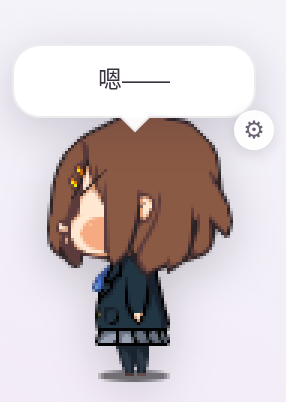
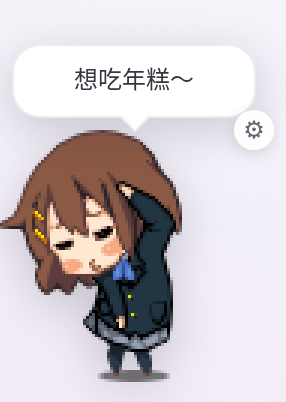
fix: 分离行走/普通动画 FPS；修正中野梓单击动作

Changed region(s): [[0.0, 0.2687, 0.8392, 0.9552], [0.2517, 0.1493, 0.6713, 0.2388]]

diff --git a/lib/client.js b/lib/client.js
@@ -178,8 +178,9 @@
 			returnAfter: 5,
 			// 移动速度（1× 缩放下的 px/s）与节奏
 			speed: 96,
-			// 所有精灵动画的播放倍率（1 = 原始速度）
-			animSpeed: 1,
+			// 行走/其他动画的帧率（FPS），分开调节
+			walkFps: 6,
+			animFps: 6,
 			idleSeconds: 4, // 两次走动之间的待机时长（秒）
 			walkSeconds: 3, // 单次走动的时长（秒）
 			// 随机跟随：律跟澪、唯跟梓；䌷在大家都待久了时跟其中一队
@@ -250,7 +251,8 @@
 			seats,
 			returnAfter: Number.isFinite(Number(source.returnAfter)) ? clamp(Number(source.returnAfter), 0, 60) : 5,
 			speed: Number.isFinite(Number(source.speed)) ? clamp(Number(source.speed), 30, 300) : 96,
-			animSpeed: Number.isFinite(Number(source.animSpeed)) ? clamp(Number(source.animSpeed), 0.5, 2) : 1,
+			walkFps: Number.isFinite(Number(source.walkFps)) ? clamp(Math.round(Number(source.walkFps)), 2, 24) : 6,
+			animFps: Number.isFinite(Number(source.animFps)) ? clamp(Math.round(Number(source.animFps)), 2, 24) : 6,
 			idleSeconds: Number.isFinite(Number(source.idleSeconds)) ? clamp(Number(source.idleSeconds), 1, 120) : 4,
 			walkSeconds: Number.isFinite(Number(source.walkSeconds)) ? clamp(Number(source.walkSeconds), 1, 60) : 3,
 			follow: source.follow !== false,
@@ -605,7 +607,7 @@
 			const ASSET_BASE = "/dsh-k-on-pet";
 			// build-client.mjs 会把占位符替换成资源内容摘要；切图/语音变化后 URL 自动变化，
 			// 避免浏览器继续使用旧尺寸的 sheet.png。
-			const ASSET_REV = "3e9369b48547";
+			const ASSET_REV = "05f9bf7a1a85";
 			const {
 				CELL,
 				TABLE,
@@ -1720,20 +1722,37 @@
 						),
 						h("div", { className: "konp-set-row" },
 							h("div", { className: "konp-set-name" },
-								h("b", null, "动画速度"),
-								h("small", null, "所有动作与茶桌动画的播放倍率"),
+								h("b", null, "行走动画 FPS"),
+								h("small", null, "迈步动画的帧率，与移动速度独立"),
 							),
 							h("input", {
 								className: "konp-range",
 								type: "range",
-								min: 0.5,
-								max: 2,
-								step: 0.05,
-								value: settings.animSpeed,
-								"aria-label": "动画速度",
-								onChange: (event) => updateSettings({ animSpeed: Number(event.target.value) }),
+								min: 2,
+								max: 24,
+								step: 1,
+								value: settings.walkFps,
+								"aria-label": "行走动画 FPS",
+								onChange: (event) => updateSettings({ walkFps: Number(event.target.value) }),
 							}),
-							h("span", { className: "konp-set-value" }, `${settings.animSpeed.toFixed(2)}×`),
+							h("span", { className: "konp-set-value" }, `${settings.walkFps} FPS`),
+						),
+						h("div", { className: "konp-set-row" },
+							h("div", { className: "konp-set-name" },
+								h("b", null, "其他动画 FPS"),
+								h("small", null, "待机、点击、拖拽等非行走动画的帧率"),
+							),
+							h("input", {
+								className: "konp-range",
+								type: "range",
+								min: 2,
+								max: 24,
+								step: 1,
+								value: settings.animFps,
+								"aria-label": "其他动画 FPS",
+								onChange: (event) => updateSettings({ animFps: Number(event.target.value) }),
+							}),
+							h("span", { className: "konp-set-value" }, `${settings.animFps} FPS`),
 						),
 						h("div", { className: "konp-set-row" },
 							h("div", { className: "konp-set-name" },
@@ -2742,14 +2761,12 @@
 
 						syncTransform();
 
-						// 走路时按位移速度推帧，避免步频和移动速度对不上（看起来像滑步）。
-						const walkFps = Math.max(2, Math.min(8, (current.speed * current.scale) / 22));
-						let fps = engine.mode === "walk" ? walkFps : engine.clip === "stand" ? 4 : (CLIP_FPS[engine.clip] || 5);
+						// 行走/其他动画分别使用用户设置的帧率；行走不再跟随移动速度自动折算。
+						let fps = engine.mode === "walk" ? current.walkFps : engine.clip === "stand" ? 4 : current.animFps;
 				// 导入的自定义动作：按"整段约 1.6 秒"折算帧率，避免 2-3 帧的图集闪成幻灯片
 				if (meta.frameOrder && meta.frameOrder[engine.row] && engine.frames.length) {
 					fps = Math.max(1, Math.min(6, engine.frames.length / 1.6));
 				}
-					fps *= Math.max(0.25, Number(current.animSpeed) || 1);
 						const advanced = Core.advanceFrame(engine, dt, fps, engine.frames.length);
 						engine.frame = advanced.frame;
 						engine.acc = advanced.acc;
@@ -3109,10 +3126,8 @@
 			}
 
 			// 入座立绘：中间三人按 4x2 帧表循环播放，两侧两人保持静态。
-			function TableSeatSprite({ id, animated, animSpeed = 1, style, onPointerDown }) {
+			function TableSeatSprite({ id, animated, style, onPointerDown }) {
 				const canvasRef = useRef(null);
-				const animRef = useRef(animSpeed);
-				animRef.current = animSpeed;
 				const [image, setImage] = useState(null);
 				useEffect(() => {
 					if (!animated) return undefined;
@@ -3139,7 +3154,7 @@
 					const stop = addTicker((dt) => {
 						if (window.document.hidden) return;
 						acc += dt;
-						const interval = 1 / Math.max(0.1, TABLE.fps * (Number(animRef.current) || 1));
+						const interval = 1 / Math.max(0.1, TABLE.fps);
 						if (acc < interval) return;
 						acc %= interval;
 						frame += 1;
@@ -3186,8 +3201,6 @@
 				const [ghost, setGhost] = useState(null);
 				const [menu, setMenu] = useState(null);
 				const [failed, setFailed] = useState(false);
-				const animSpeedRef = useRef(settings.animSpeed);
-				animSpeedRef.current = settings.animSpeed;
 
 				useEffect(() => () => cleanupRef.current(), []);
 
@@ -3238,7 +3251,7 @@
 					const removeTicker = reduce ? () => {} : addTicker((dt) => {
 						if (!ready00 || window.document.hidden) return;
 						acc += dt;
-						const interval = 1 / Math.max(0.1, TABLE.fps * (Number(animSpeedRef.current) || 1));
+						const interval = 1 / Math.max(0.1, TABLE.fps);
 						while (acc >= interval) {
 							acc -= interval;
 							frame += 1;
@@ -3405,7 +3418,6 @@
 							key: seat.id,
 							id: seat.id,
 							animated: Boolean(TABLE_ANIM[seat.id]),
-							animSpeed: settings.animSpeed,
 							style: {
 								position: "absolute",
 								zIndex: seat.id === "yui" ? 1 : 2,

diff --git a/src/client.js b/src/client.js
@@ -1132,20 +1132,37 @@
 						),
 						h("div", { className: "konp-set-row" },
 							h("div", { className: "konp-set-name" },
-								h("b", null, "动画速度"),
-								h("small", null, "所有动作与茶桌动画的播放倍率"),
+								h("b", null, "行走动画 FPS"),
+								h("small", null, "迈步动画的帧率，与移动速度独立"),
 							),
 							h("input", {
 								className: "konp-range",
 								type: "range",
-								min: 0.5,
-								max: 2,
-								step: 0.05,
-								value: settings.animSpeed,
-								"aria-label": "动画速度",
-								onChange: (event) => updateSettings({ animSpeed: Number(event.target.value) }),
+								min: 2,
+								max: 24,
+								step: 1,
+								value: settings.walkFps,
+								"aria-label": "行走动画 FPS",
+								onChange: (event) => updateSettings({ walkFps: Number(event.target.value) }),
 							}),
-							h("span", { className: "konp-set-value" }, `${settings.animSpeed.toFixed(2)}×`),
+							h("span", { className: "konp-set-value" }, `${settings.walkFps} FPS`),
+						),
+						h("div", { className: "konp-set-row" },
+							h("div", { className: "konp-set-name" },
+								h("b", null, "其他动画 FPS"),
+								h("small", null, "待机、点击、拖拽等非行走动画的帧率"),
+							),
+							h("input", {
+								className: "konp-range",
+								type: "range",
+								min: 2,
+								max: 24,
+								step: 1,
+								value: settings.animFps,
+								"aria-label": "其他动画 FPS",
+								onChange: (event) => updateSettings({ animFps: Number(event.target.value) }),
+							}),
+							h("span", { className: "konp-set-value" }, `${settings.animFps} FPS`),
 						),
 						h("div", { className: "konp-set-row" },
 							h("div", { className: "konp-set-name" },
@@ -2154,14 +2171,12 @@
 
 						syncTransform();
 
-						// 走路时按位移速度推帧，避免步频和移动速度对不上（看起来像滑步）。
-						const walkFps = Math.max(2, Math.min(8, (current.speed * current.scale) / 22));
-						let fps = engine.mode === "walk" ? walkFps : engine.clip === "stand" ? 4 : (CLIP_FPS[engine.clip] || 5);
+						// 行走/其他动画分别使用用户设置的帧率；行走不再跟随移动速度自动折算。
+						let fps = engine.mode === "walk" ? current.walkFps : engine.clip === "stand" ? 4 : current.animFps;
 				// 导入的自定义动作：按"整段约 1.6 秒"折算帧率，避免 2-3 帧的图集闪成幻灯片
 				if (meta.frameOrder && meta.frameOrder[engine.row] && engine.frames.length) {
 					fps = Math.max(1, Math.min(6, engine.frames.length / 1.6));
 				}
-					fps *= Math.max(0.25, Number(current.animSpeed) || 1);
 						const advanced = Core.advanceFrame(engine, dt, fps, engine.frames.length);
 						engine.frame = advanced.frame;
 						engine.acc = advanced.acc;
@@ -2521,10 +2536,8 @@
 			}
 
 			// 入座立绘：中间三人按 4x2 帧表循环播放，两侧两人保持静态。
-			function TableSeatSprite({ id, animated, animSpeed = 1, style, onPointerDown }) {
+			function TableSeatSprite({ id, animated, style, onPointerDown }) {
 				const canvasRef = useRef(null);
-				const animRef = useRef(animSpeed);
-				animRef.current = animSpeed;
 				const [image, setImage] = useState(null);
 				useEffect(() => {
 					if (!animated) return undefined;
@@ -2551,7 +2564,7 @@
 					const stop = addTicker((dt) => {
 						if (window.document.hidden) return;
 						acc += dt;
-						const interval = 1 / Math.max(0.1, TABLE.fps * (Number(animRef.current) || 1));
+						const interval = 1 / Math.max(0.1, TABLE.fps);
 						if (acc < interval) return;
 						acc %= interval;
 						frame += 1;
@@ -2598,8 +2611,6 @@
 				const [ghost, setGhost] = useState(null);
 				const [menu, setMenu] = useState(null);
 				const [failed, setFailed] = useState(false);
-				const animSpeedRef = useRef(settings.animSpeed);
-				animSpeedRef.current = settings.animSpeed;
 
 				useEffect(() => () => cleanupRef.current(), []);
 
@@ -2650,7 +2661,7 @@
 					const removeTicker = reduce ? () => {} : addTicker((dt) => {
 						if (!ready00 || window.document.hidden) return;
 						acc += dt;
-						const interval = 1 / Math.max(0.1, TABLE.fps * (Number(animSpeedRef.current) || 1));
+						const interval = 1 / Math.max(0.1, TABLE.fps);
 						while (acc >= interval) {
 							acc -= interval;
 							frame += 1;
@@ -2817,7 +2828,6 @@
 							key: seat.id,
 							id: seat.id,
 							animated: Boolean(TABLE_ANIM[seat.id]),
-							animSpeed: settings.animSpeed,
 							style: {
 								position: "absolute",
 								zIndex: seat.id === "yui" ? 1 : 2,

diff --git a/README.md b/README.md
@@ -60,8 +60,9 @@ dsh plugin --profile web add github:sunjay-lee/dsh-k-on-pet
 | 显示角色 | 五人开关 / 全部显示 / 全部隐藏 | 可同时显示，各自独立坐标 |
 | 桌子 | 显示桌子 | 茶桌开关；关掉同时清空座位 |
 | | 自动回位 | 0–30 分钟；在外超过这个时长会自己走回座位，0 = 不回位 |
-| 外观与行为 | 大小 / 动画速度 / 语音 / 随机闲聊 / 溜达 / 朝向反转 / 关怀提醒 | 见上文 |
-| | 动画速度 | 0.5–2.0×；作用于所有角色动作与茶桌动画，1.0× 为原始速度 |
+| 外观与行为 | 大小 / 行走动画 FPS / 其他动画 FPS / 语音 / 随机闲聊 / 溜达 / 朝向反转 / 关怀提醒 | 见上文 |
+| | 行走动画 FPS | 2–24；只控制迈步动画，移动速度仍由「行走速度」单独控制 |
+| | 其他动画 FPS | 2–24；控制待机、点击、拖拽、睡眠等非行走动画 |
 | 备份与恢复 | 导出 / 导入 | 偏好存为 JSON，可跨浏览器迁移 |
 | 位置与重置 | 初始化 / 重置所有位置 / 恢复默认设置 | 清空坐标与运行状态 |
 
